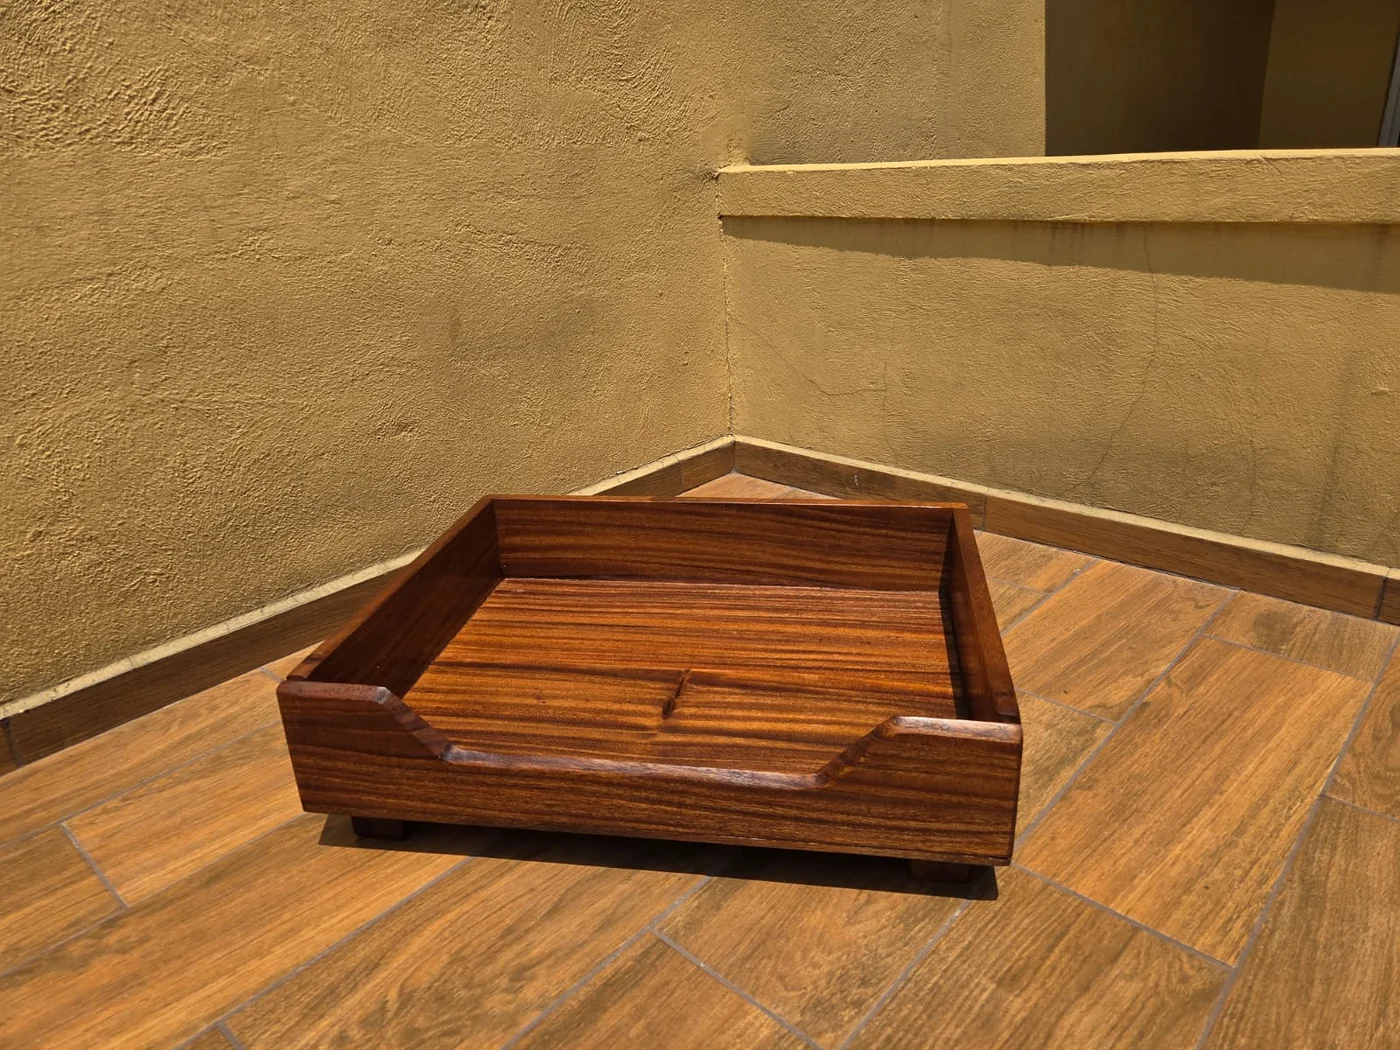
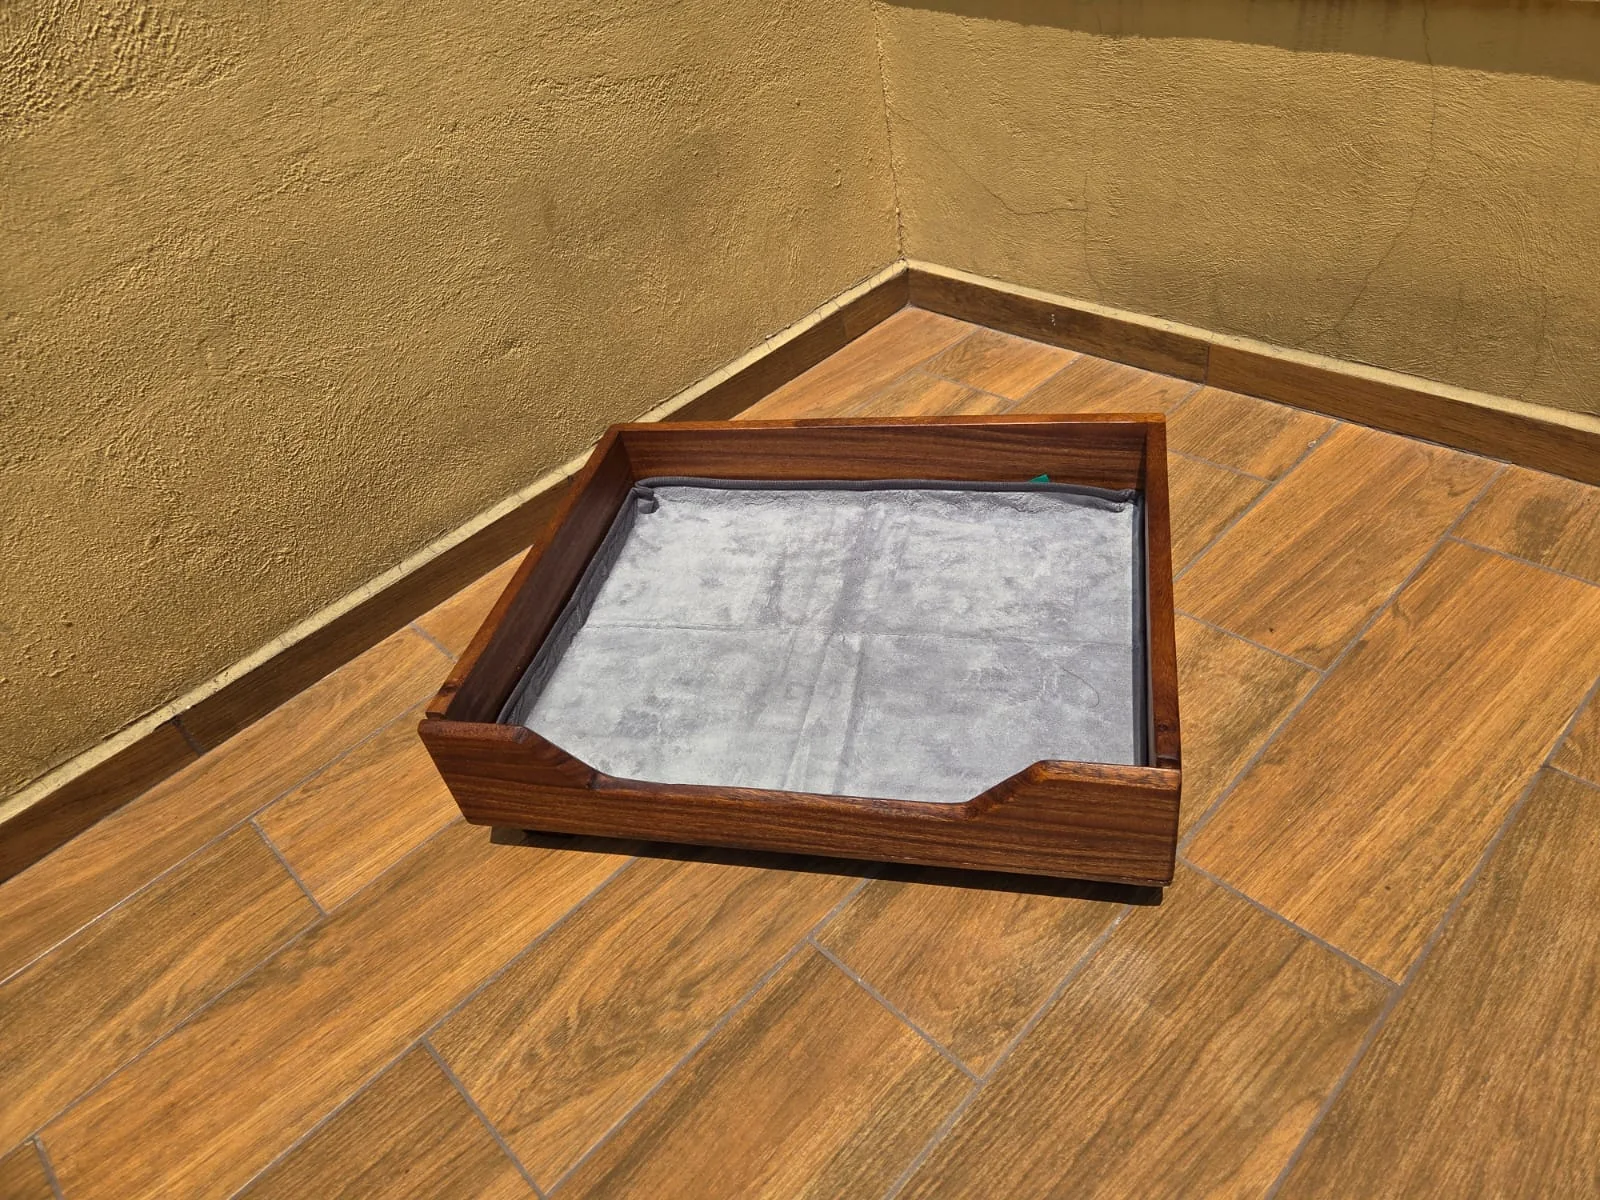
Agrega nicho para mascota folio 16 y actualiza cama folio 13

diff --git a/service-worker.js b/service-worker.js
@@ -1,6 +1,6 @@
 'use strict';
 // Increment this single version when releasing changed shell assets.
-const CACHE_NAME = 'crj-muebles-v8';
+const CACHE_NAME = 'crj-muebles-v10';
 const ROOT = new URL('./', self.location.href);
 const local = path => new URL(path, ROOT).href;
 const SHELL = [
